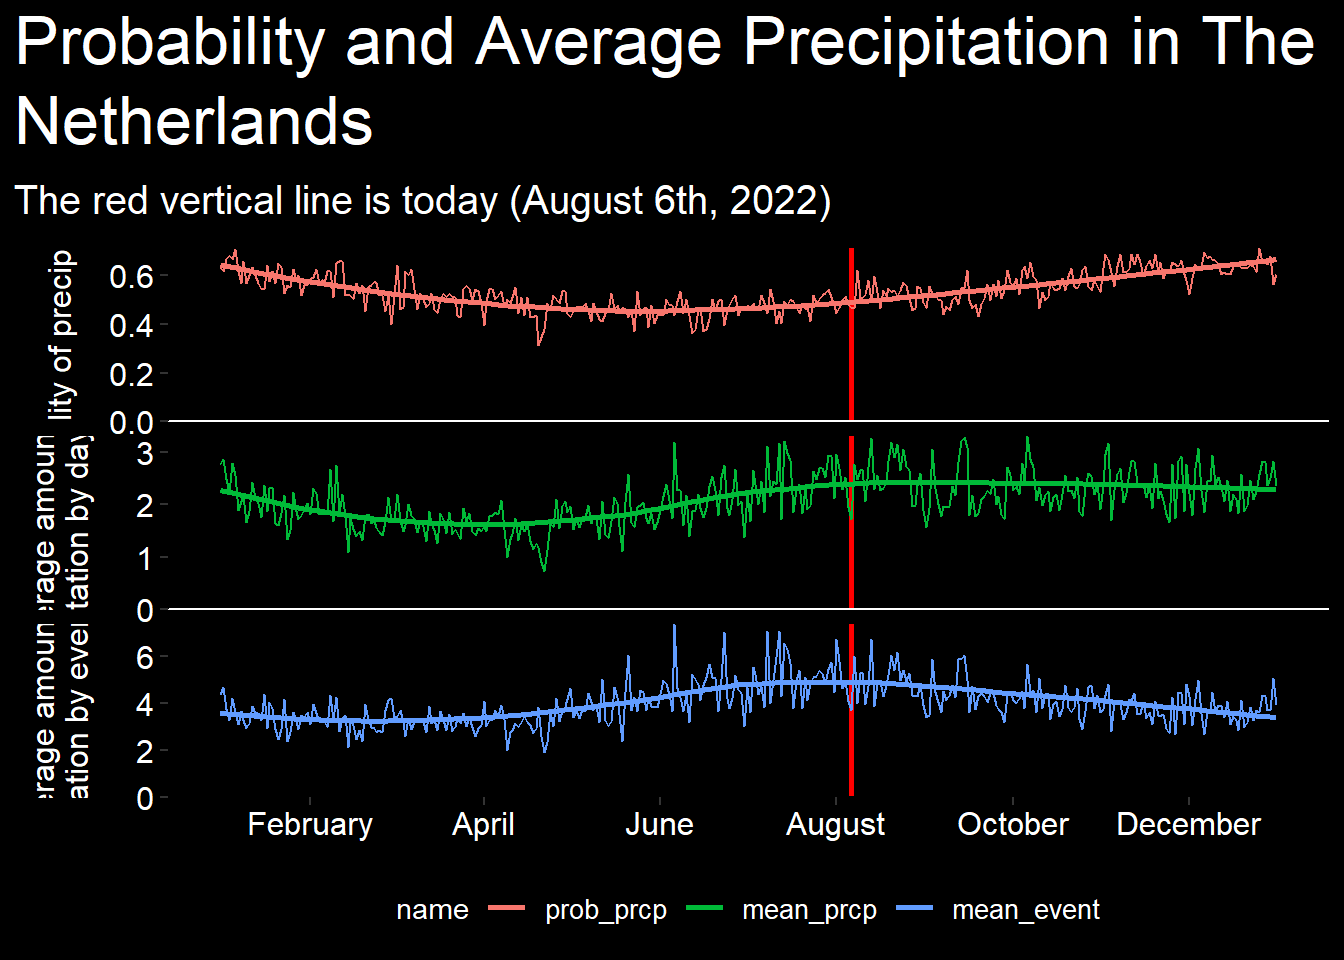
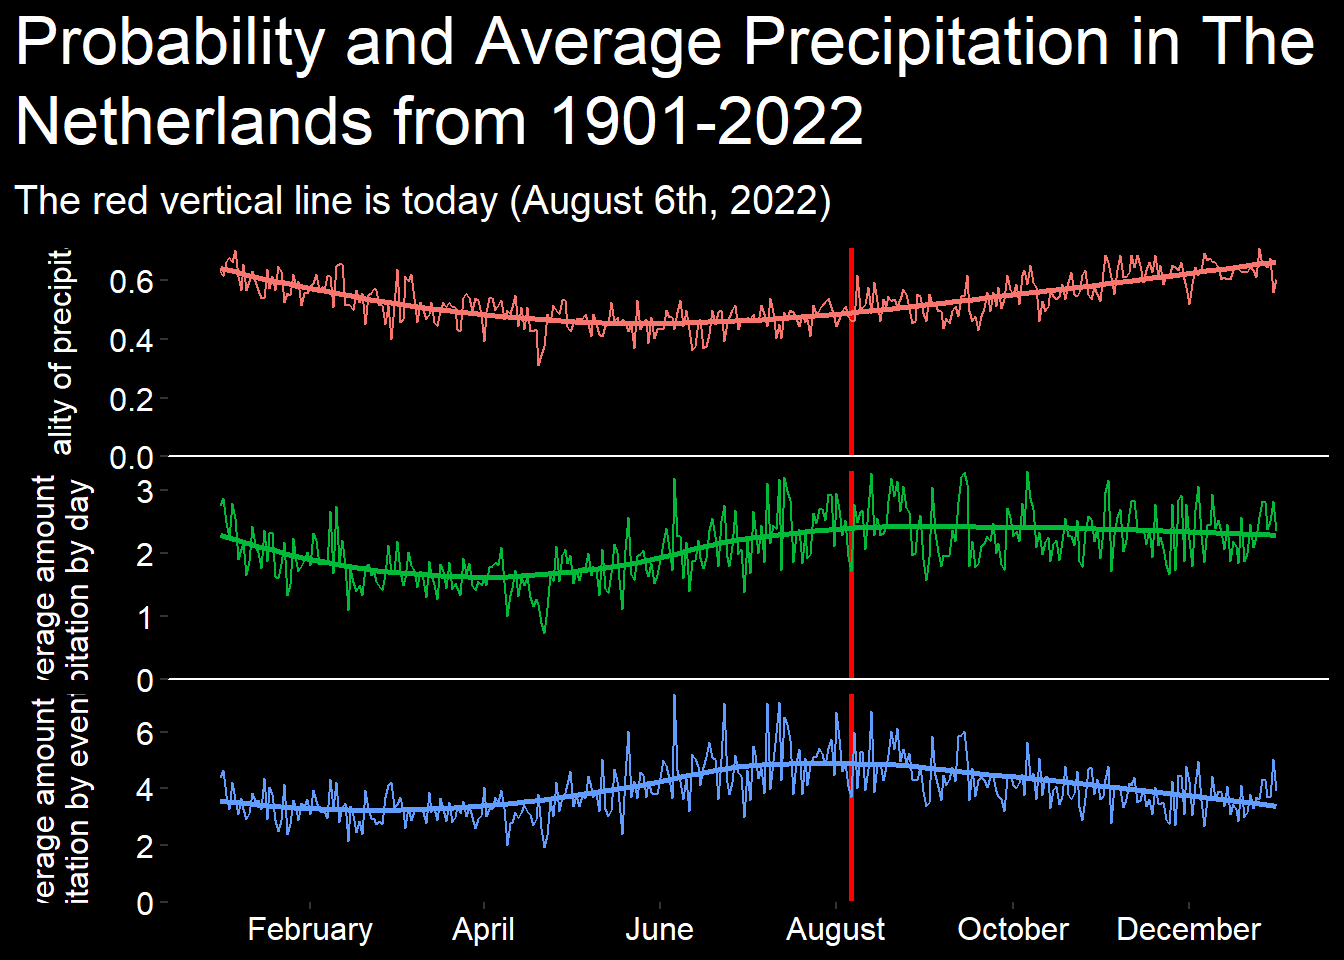
new changes climate change Netherlands

diff --git a/content/blog/20220722_temperature_ne/index.html b/content/blog/20220722_temperature_ne/index.html
@@ -4,10 +4,10 @@ categories:
 - temperature
 date: "2022-07-22"
 draft: false
-excerpt: Temperature rises in the Netherlands between 1901 and 2022
+excerpt: Climate change in the Netherlands between 1901 and 2022
 layout: single
-subtitle: Temperature rises in the Netherlands between 1901 and 2022
-title: Temperature Rise in The Netherlands
+subtitle: Temperature, Precipitation and Snowfall in the Netherlands between 1901 and 2022
+title: Climate change in The Netherlands between 1901 and 2022
 external_link: ""
 image:
   caption: Temprature
@@ -247,7 +247,7 @@ local_weather %&gt;%
   coord_cartesian(clip = &quot;off&quot;) +
   labs(x=NULL,
         y=NULL,
-       title = &quot;Probability and Average Precipitation in The Netherlands&quot;,
+       title = &quot;Probability and Average Precipitation in The Netherlands from 1901-2022&quot;,
        #title = glue(&quot;Through {today_month} {today_day}, the precipitation in The Netherlands near De Bilt has a &lt;span style = &#39;color: red&#39;&gt;probability&lt;/span&gt; and &lt;span style = &#39;color: red&#39;&gt;average&lt;/span&gt; for {today_date}&quot;)) +
        subtitle = &quot;The red vertical line is today (August 6th, 2022)&quot;) +
   theme(
@@ -264,10 +264,10 @@ local_weather %&gt;%
     axis.title.y = element_text(color = &quot;white&quot;),
     axis.text = element_text(color = &quot;white&quot;, size = 12),
     legend.background = element_rect(fill = &quot;black&quot;),
-    legend.text = element_text(color = &quot;white&quot;, size = 10),
-    legend.title = element_text(color = &quot;white&quot;),
-    legend.position = &quot;bottom&quot;,
-    legend.key = element_rect(fill = &quot;black&quot;)
+    #legend.text = element_text(color = &quot;white&quot;, size = 10),
+    #legend.title = element_text(color = &quot;white&quot;),
+    legend.position = &quot;none&quot;,
+    #legend.key = element_rect(fill = &quot;black&quot;)
     )</code></pre>
 <pre><code>## `geom_smooth()` using method = &#39;loess&#39; and formula &#39;y ~ x&#39;</code></pre>
 <p><img src="{{< blogdown/postref >}}index_files/figure-html/unnamed-chunk-10-1.png" width="672" /></p>
